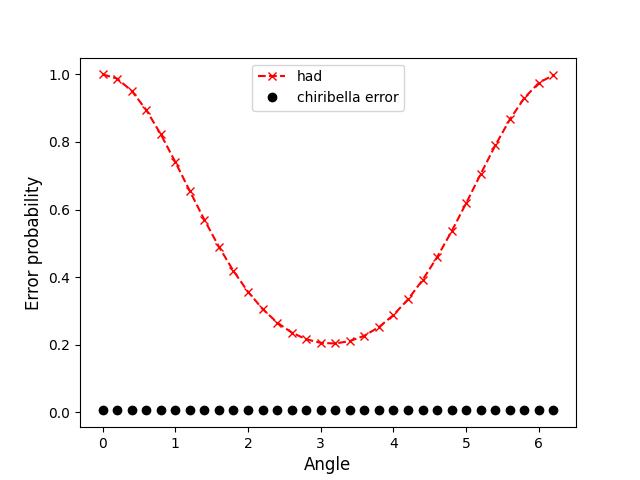
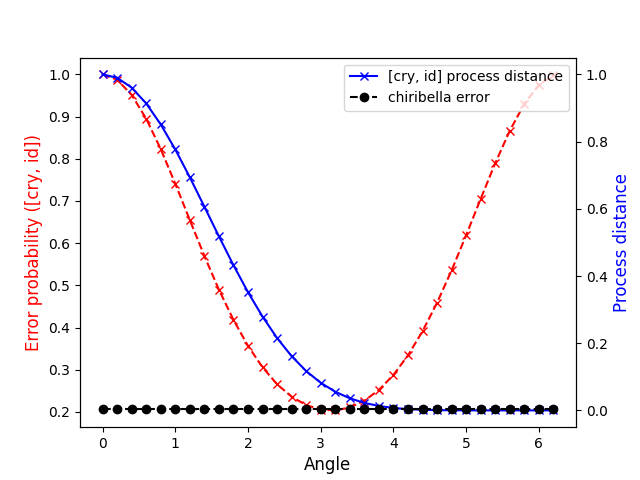
up

diff --git a/src/investigation.py b/src/investigation.py
@@ -1,12 +1,12 @@
 from cProfile import label
 from cmath import log
+from turtle import color
 from main_circuit import *
 import matplotlib.pyplot as plt
 
-def distinguishing_probability(gate, theta_init, theta_oracle):
-    list_opts = [ 'cry', 'identity' ]
-    dict_swap = pickle.load(open(f'data/{list_opts[0]}_dict_prob_initial_ang_{theta_init}_oracle_ang_{theta_oracle}_initial_initialization_{gate}.p', "rb"))
-    dict_identity = pickle.load(open(f'data/{list_opts[1]}_dict_prob_initial_ang_{theta_init}_oracle_ang_{theta_oracle}_initial_initialization_{gate}.p', "rb"))
+def distinguishing_probability(list_opt, gate, theta_init, theta_oracle):
+    dict_swap = pickle.load(open(f'data/{list_opts[0]}_dict_prob_initial_ang_{theta_init}_oracle_ang_{theta_oracle}_initial_initialization_{gate}_prob.p', "rb"))
+    dict_identity = pickle.load(open(f'data/{list_opts[1]}_dict_prob_initial_ang_{theta_init}_oracle_ang_{theta_oracle}_initial_initialization_{gate}_prob.p', "rb"))
 
     list_key_swap = []
     list_key_identity = []
@@ -32,42 +32,77 @@ def distinguishing_probability(gate, theta_init, theta_oracle):
 
 if __name__ == "__main__":
 
+    fig, ax = plt.subplots()
+    theta_range = np.arange(0, 2*np.pi, 0.2)
+    total_list_opts = [ [ 'cry', 'identity' ] ] #, [ 'swap', 'identity' ] ]
     calculate = 'prob'
-    gate_list = 'had' #, 'ry', 'rz' ]
+    gate_list = 'had'
     if gate_list == 'had':
         theta_init_list = [0]
     else:
-        theta_init_list = np.arange(0, 2*np.pi, 0.5)
-    
-    theta_oracle_list = np.arange(0, 2*np.pi, 0.2)
-    line_opt = [ 'r--x', 'b--o', 'g--' ]
-    for gateno, gate in enumerate([gate_list]):
-        for theta_init in theta_init_list:
-            list_data = []
-            list_angle = []
-            for theta_oracle in theta_oracle_list:
-                theta_init = round(theta_init, 2)
-                theta_oracle = round(theta_oracle, 2)
-                prob = 1 - distinguishing_probability(gate, theta_init, theta_oracle)
-                list_angle.append(theta_oracle)
-                if calculate == 'rate':
-                    rate = -log(prob)/4
-                    list_data.append(rate)
-                elif calculate == 'prob':
-                    list_data.append(prob)
+        theta_init_list = theta_range
+    line_style = [ 'r--x', 'b--o' ]
+    dict_error_prob = {}
 
-        
-            plt.plot( list_angle, list_data, line_opt[gateno], label = f'{gate}' )
-            plt.xlabel( f'Angle', fontsize = 12 )
-        if calculate == 'rate':
-            plt.plot( list_angle, [0.60205999132]*len(list_angle), 'ko', label = 'chiribella disrimination rate' )
-            plt.ylabel('Discrimination rate', fontsize=12)
-        elif calculate == 'prob':
-            chiribella_error_prob = (3/(2*2**4))*(1 - np.sqrt(1 - 3**(-2)))
-            plt.plot( list_angle, [chiribella_error_prob]*len(list_angle), 'ko', label = 'chiribella error' )
-            plt.ylabel( 'Error probability', fontsize = 12 )
-        
-        plt.legend()
-        plt.savefig( f'plot/hypothesis_distinguishing_{calculate}.pdf' )
-        plt.savefig( f'plot/hypothesis_distinguishing_{calculate}.png' )
-        plt.show()
+    for no, list_opts in enumerate(total_list_opts):
+        for l in list_opts:
+            if l  == 'cry':
+                theta_oracle_list = theta_range
+            elif l == 'swap':
+                theta_oracle_list = [0]
+
+        for gateno, gate in enumerate([gate_list]):
+            for theta_init in theta_init_list:
+                list_data = []
+                list_angle = []
+                for theta_oracle in theta_oracle_list:
+                    theta_init = round(theta_init, 2)
+                    theta_oracle = round(theta_oracle, 2)
+                    prob = 1 - distinguishing_probability(list_opts, gate, theta_init, theta_oracle)
+                    list_angle.append(theta_oracle)
+                    if calculate == 'rate':
+                        rate = -log(prob)/4
+                        list_data.append(rate)
+                    elif calculate == 'prob':
+                        list_data.append(prob)
+
+                if no == 0:
+                    ax.plot( list_angle, list_data, line_style[no], label = f'{gate}, oracle = [cry,id]' )
+                else:
+                    ax.plot( list_angle, list_data, line_style[no], label = f'{gate}, oracle = [swap,id]' )
+                ax.set_xlabel( f'Angle', fontsize = 12 )
+            
+            dict_error_prob[f'{no}'] = list_data
+    
+    ax2 = ax.twinx()
+    process_dist = []
+    qc_id = oracle_type(0, 'identity')
+    id_chi_op = Operator(Chi(qc_id).data)
+    for theta_init in theta_range:
+        qc_cry = oracle_type(theta_init, 'cry')
+        cry_chi_op = Operator(Chi(qc_cry).data)
+        process_distance = process_fidelity( id_chi_op, cry_chi_op )
+        process_dist.append( process_distance )
+    
+    ax2.plot( theta_range, process_dist, 'b-x', label = '[cry, id] process distance' )
+    ax2.set_ylabel( 'Process distance', color = 'blue', fontsize = 12 )
+
+    difference_list = []
+    for el in dict_error_prob['0']:
+        difference = el - dict_error_prob['0'][0]
+        difference_list.append(difference)
+
+    # plt.plot(theta_range, difference_list, 'g--v' ,label = 'difference [cry,id], [swap,id]')
+
+    if calculate == 'rate':
+        plt.plot( theta_range, [0.60205999132]*len(theta_range), 'k-', label = 'chiribella disrimination rate' )
+        plt.ylabel('Discrimination rate', fontsize=12)
+    elif calculate == 'prob':
+        chiribella_error_prob = (3/(2*2**4))*(1 - np.sqrt(1 - 3**(-2)))
+        plt.plot( theta_range, [chiribella_error_prob]*len(theta_range), 'k--o', label = 'chiribella error' )
+        ax.set_ylabel( 'Error probability ([cry, id])', color = 'red',  fontsize = 12 )
+
+    plt.legend()
+    plt.savefig( f'plot/hypothesis_distinguishing_{calculate}.pdf' )
+    plt.savefig( f'plot/hypothesis_distinguishing_{calculate}.png' )
+    plt.show()
